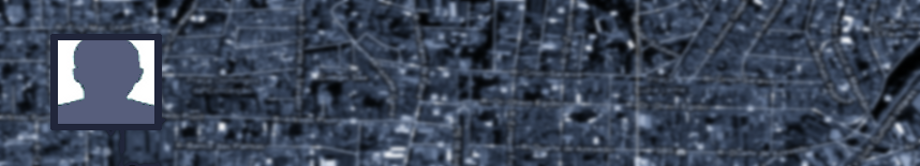
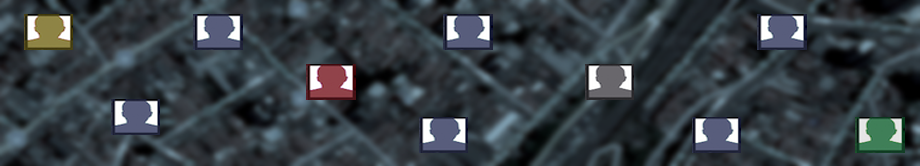
New main image

diff --git a/src/templates/registration/login.html b/src/templates/registration/login.html
@@ -1,0 +1,32 @@
+{% extends "base.html" %}
+{% load url from future %}
+
+{% block content %}
+
+        <p>&nbsp;</p>
+
+        <img src="{{ STATIC_URL }}images/location_main.png">
+
+        <h1>Login</h1>
+
+        {% if form.errors %}
+            <p>Invalid username or password!</p>
+        {% endif %}
+
+        <form id="login-form" method="post">
+            {% csrf_token %}
+            <div class="form-row">
+                {{ form.username.label_tag }}
+                {{ form.username }}
+            </div>
+            <div class="form-row">
+                {{ form.password.label_tag }}
+                {{ form.password }}
+            </div>
+            <div class="submit-row">
+                <input type="submit" value="Log in" />
+            </div>
+            <input type="hidden" name="next" value="{{ next }}" />
+        </form>
+
+{% endblock content %}

diff --git a/src/settings.py b/src/settings.py
@@ -114,11 +114,13 @@ INSTALLED_APPS = (
     'django.contrib.staticfiles',
     'django.contrib.admin',
     # Third party apps
-    #
+    'registration',
     # FindMyDevice apps
     'core',
     'api',
 )
+
+ACCOUNT_ACTIVATION_DAYS = 7
 
 # A sample logging configuration. The only tangible logging
 # performed by this configuration is to send an email to

diff --git a/src/urls.py b/src/urls.py
@@ -7,6 +7,7 @@ admin.autodiscover()
 urlpatterns = patterns('',
     url(r'^admin/', include(admin.site.urls)),
     (r'^$', 'core.views.homepage', {'template': 'index.html'}),
+    (r'^accounts/', include('registration.urls')),
     (r'^api/', include('api.urls')),
 )
 
